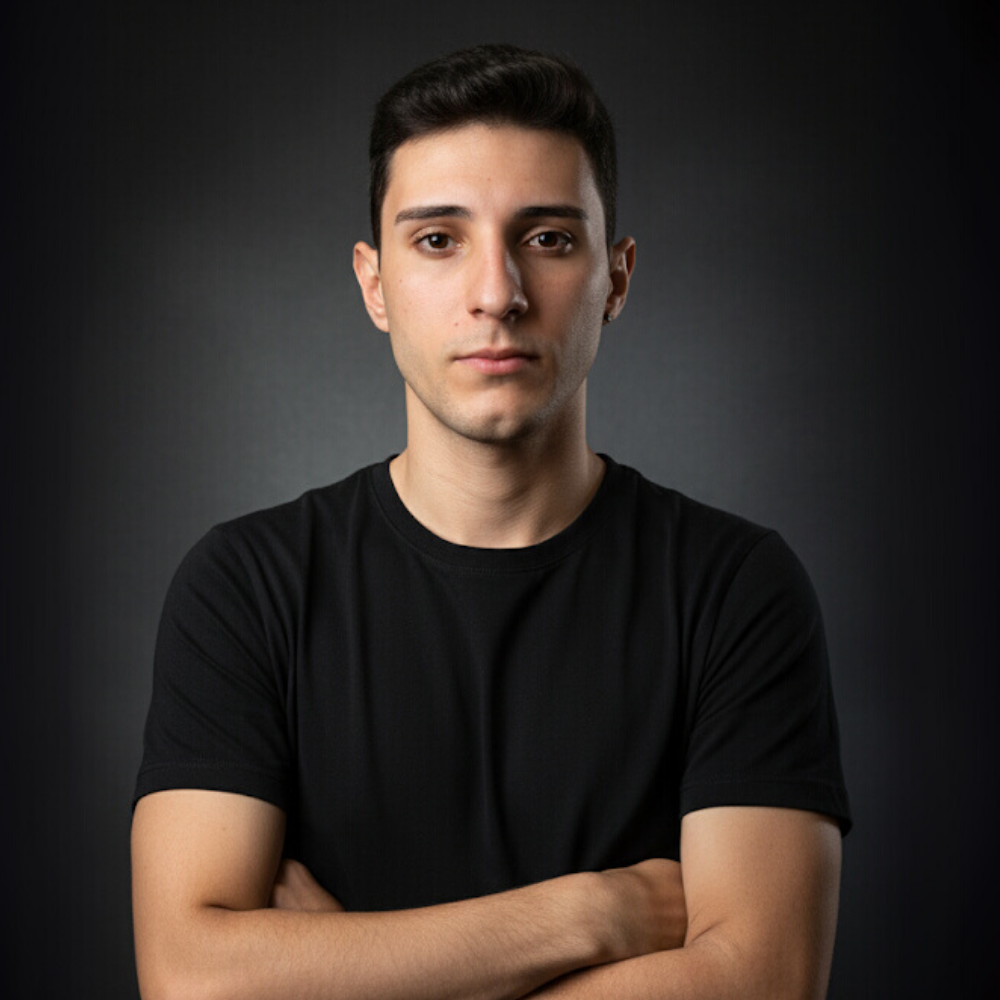
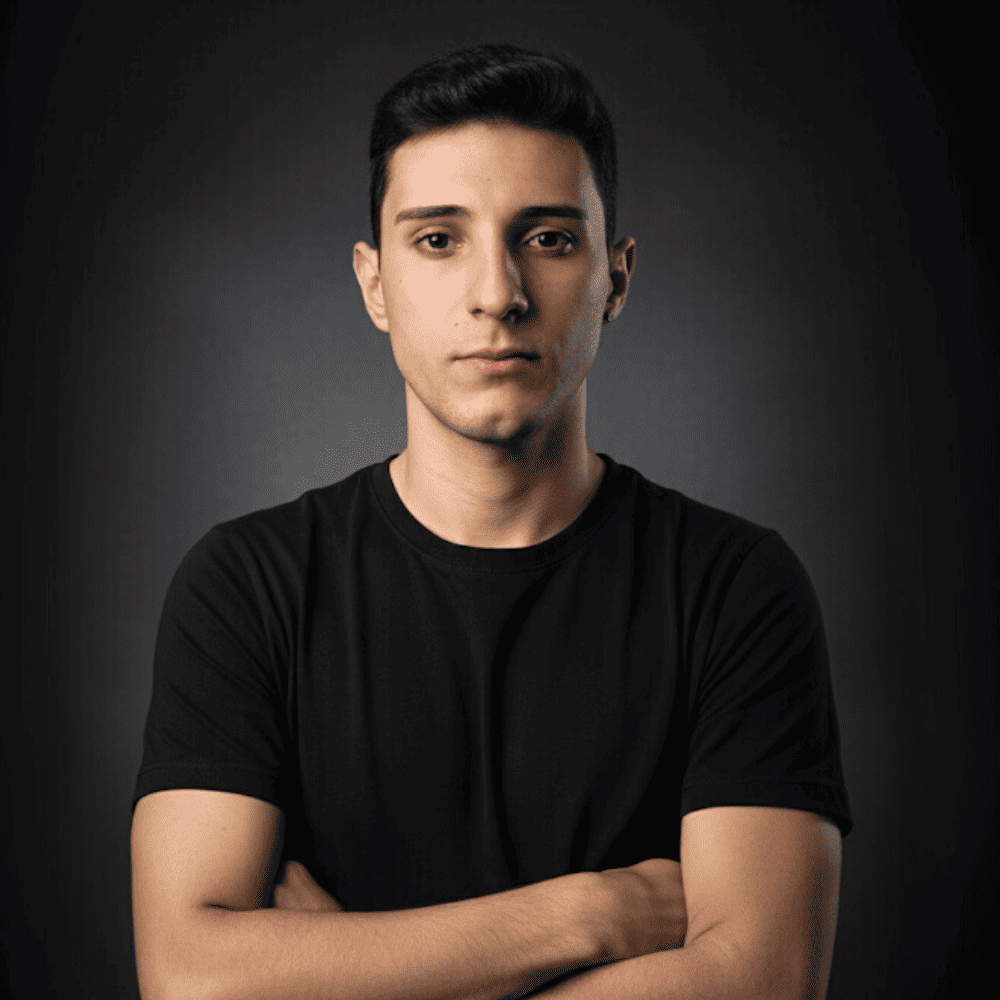
feat: Compress Profiler Img

diff --git a/src/modules/Experience/styled.ts b/src/modules/Experience/styled.ts
@@ -2,8 +2,8 @@ import styled from "styled-components";
 
 export const Line = styled.div`
   height: 30px;
-  width: 1px;
+  width: 2px;
   border-radius: 10px;
-  border: 1px solid gray;
   margin-left: 18px;
+  background-color: var(--gray-6);
 `;
